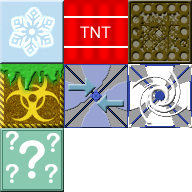
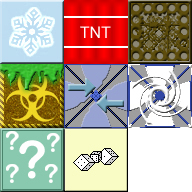
Added random events

Changed region(s): [[0.3125, 0.6562, 0.6875, 1.0]]

diff --git a/app/js/app.js b/app/js/app.js
@@ -1,5 +1,5 @@
 (function() {
-  var Arena, Bonus, BonusManager, Boss, BossManager, CollisionManager, ContentLoader, ControllablePlayer, Cube, CubeFragment, CubeManager, Effect, FallingCube, FreezeMan, FreezeManPart, Game, HUD, HomingMan, HomingManPart, Keyboard, LabiMan, LabiManPart, LevelManager, MissileMan, MissileManPart, MultiPartBoss, NetworkManager, Player, PoingMan, RoueMan, SkinManager, SparkMan, SparkManPart, SpecialCube, SpecialCubes, SquareEnum, StaticCube, VirtualPlayer, animFrame, arena, bonusManager, bonusTypes, bonusTypesId, bossManager, collisionManager, config, contentLoader, cubeManager, debugLayer, debugMap, div, divs, dynamicEntities, game, hud, hudLayer, keyboard, levelManager, networkManager, player, players, skin, skinManager, stage, staticBg, staticCubes, _i, _len,
+  var Arena, Bonus, BonusManager, Boss, BossManager, CollisionManager, ContentLoader, ControllablePlayer, Cube, CubeFragment, CubeManager, Effect, FallingCube, FreezeMan, FreezeManPart, Game, HUD, HomingMan, HomingManPart, Keyboard, LabiMan, LabiManPart, LevelManager, MissileMan, MissileManPart, MultiPartBoss, NetworkManager, Player, PoingMan, RandomEvent, RoueMan, SkinManager, SparkMan, SparkManPart, SpecialCube, SpecialCubes, SquareEnum, StaticCube, VirtualPlayer, animFrame, arena, bonusManager, bonusTypes, bonusTypesId, bossManager, collisionManager, config, contentLoader, cubeManager, debugLayer, debugMap, div, divs, dynamicEntities, game, hud, hudLayer, keyboard, levelManager, networkManager, player, players, randomEvents, skin, skinManager, stage, staticBg, staticCubes, _i, _len,
     __hasProp = {}.hasOwnProperty,
     __extends = function(child, parent) { for (var key in parent) { if (__hasProp.call(parent, key)) child[key] = parent[key]; } function ctor() { this.constructor = child; } ctor.prototype = parent.prototype; child.prototype = new ctor(); child.__super__ = parent.prototype; return child; };
 
@@ -1079,7 +1079,7 @@
     };
 
     ControllablePlayer.prototype.takeBonus = function(bonus) {
-      bonusManager.getBonus(bonus.getName().name, this);
+      bonusManager.getBonus(bonus.getName().name);
       bonus.destroy();
       dynamicEntities.draw();
       return networkManager.sendBonusTaken(bonus.getId());
@@ -1641,6 +1641,70 @@
             width: 64,
             height: 64
           }
+        ],
+        'randomEvent': [
+          {
+            x: 64,
+            y: 128,
+            width: 64,
+            height: 64
+          }
+        ],
+        speed: [
+          {
+            x: 96,
+            y: 0,
+            width: 32,
+            height: 32
+          }
+        ],
+        jumpHeight: [
+          {
+            x: 0,
+            y: 0,
+            width: 32,
+            height: 32
+          }
+        ],
+        doubleJump: [
+          {
+            x: 0,
+            y: 0,
+            width: 32,
+            height: 32
+          }
+        ],
+        grabbing: [
+          {
+            x: 34,
+            y: 0,
+            width: 32,
+            height: 32
+          }
+        ],
+        resurection: [
+          {
+            x: 68,
+            y: 0,
+            width: 32,
+            height: 32
+          }
+        ],
+        speed: [
+          {
+            x: 102,
+            y: 0,
+            width: 32,
+            height: 32
+          }
+        ],
+        tp: [
+          {
+            x: 0,
+            y: 34,
+            width: 32,
+            height: 32
+          }
         ]
       };
       this.draw();
@@ -1739,6 +1803,92 @@
 
   })(Cube);
 
+  randomEvents = ['resurection', 'speed', 'grabbing', 'doubleJump', 'jumpHeight', 'tp'];
+
+  RandomEvent = (function(_super) {
+    __extends(RandomEvent, _super);
+
+    function RandomEvent(type) {
+      var self, tween, x, y;
+      x = stage.getWidth() / 2 - 32;
+      y = stage.getY() * -1 - 64;
+      this.type = randomEvents[type];
+      RandomEvent.__super__.constructor.call(this, x, y, SquareEnum.MEDIUM, 'cubes_special', 'randomEvent');
+      dynamicEntities.add(this.shape);
+      this.shape.setName({
+        type: 'event',
+        randType: this.type
+      });
+      this.shape.draw();
+      self = this;
+      tween = new Kinetic.Tween({
+        node: this.shape,
+        duration: 1,
+        y: arena.y - levelManager.levelHeight - 640,
+        onFinish: function() {
+          return self.doEvent();
+        }
+      });
+      tween.play();
+      cubeManager.tweens.push(tween);
+    }
+
+    RandomEvent.prototype.playEffect = function(effect) {
+      var tmpX, tmpY, tween;
+      effect = new Cube(this.shape.getX() + 16, this.shape.getY() + 16, SquareEnum.SMALL, 'bonus', effect);
+      dynamicEntities.add(effect.shape);
+      effect.shape.setName({
+        type: 'effect'
+      });
+      effect.shape.draw();
+      tmpX = effect.shape.getX() - 16;
+      tmpY = effect.shape.getY() - 16;
+      tween = new Kinetic.Tween({
+        node: effect.shape,
+        duration: 0.3,
+        scaleX: 2,
+        scaleY: 2,
+        x: tmpX,
+        y: tmpY,
+        onFinish: function() {
+          return effect.shape.destroy();
+        }
+      });
+      tween.play();
+      return cubeManager.tweens.push(tween);
+    };
+
+    RandomEvent.prototype.doEvent = function() {
+      var event;
+      contentLoader.play('explosion');
+      event = this.shape.getName().randType;
+      if (event === 'resurection') {
+        player.resurection();
+        this.playEffect('resurection');
+      } else if (event === 'speed') {
+        bonusManager.getBonus('speed', player);
+        this.playEffect('speed');
+      } else if (event === 'grabbing') {
+        bonusManager.getBonus('grabbing', player);
+        this.playEffect('grabbing');
+      } else if (event === 'doubleJump') {
+        bonusManager.getBonus('doubleJump', player);
+        this.playEffect('doubleJump');
+      } else if (event === 'jumpHeight') {
+        bonusManager.getBonus('jumpHeight', player);
+        this.playEffect('jumpHeight');
+      } else if (event === 'tp') {
+        player.shape.setX(this.shape.getX() + 16);
+        player.shape.setY(this.shape.getY() + 64);
+        this.playEffect('tp');
+      }
+      return this.shape.destroy();
+    };
+
+    return RandomEvent;
+
+  })(Cube);
+
   CubeFragment = (function(_super) {
     __extends(CubeFragment, _super);
 
@@ -1764,20 +1914,8 @@
   })(Cube);
 
   bonusTypes = {
-    speed: [
-      {
-        id: 1,
-        name: 'speed',
-        x: 96,
-        y: 0,
-        width: 32,
-        height: 32
-      }
-    ],
     jumpHeight: [
       {
-        id: 2,
-        name: 'jumpHeight',
         x: 0,
         y: 0,
         width: 32,
@@ -1786,8 +1924,6 @@
     ],
     doubleJump: [
       {
-        id: 3,
-        name: 'doubleJump',
         x: 0,
         y: 0,
         width: 32,
@@ -1796,9 +1932,7 @@
     ],
     grabbing: [
       {
-        id: 4,
-        name: 'grabbing',
-        x: 32,
+        x: 34,
         y: 0,
         width: 32,
         height: 32
@@ -1806,9 +1940,15 @@
     ],
     resurection: [
       {
-        id: 5,
-        name: 'resurection',
-        x: 64,
+        x: 68,
+        y: 0,
+        width: 32,
+        height: 32
+      }
+    ],
+    speed: [
+      {
+        x: 102,
         y: 0,
         width: 32,
         height: 32
@@ -1904,7 +2044,7 @@
       this.timers = [];
     }
 
-    BonusManager.prototype.getBonus = function(bonusName, player) {
+    BonusManager.prototype.getBonus = function(bonusName) {
       var bonus, _i, _len, _ref, _results;
       contentLoader.play('pickup');
       _ref = this.bonuses;
@@ -1983,10 +2123,17 @@
     }
 
     LevelManager.prototype.reset = function() {
-      var tween, _i, _len, _ref;
+      var tween, _i, _j, _len, _len1, _ref, _ref1;
       _ref = this.tweens;
       for (_i = 0, _len = _ref.length; _i < _len; _i++) {
         tween = _ref[_i];
+        if (tween !== void 0) {
+          tween.destroy();
+        }
+      }
+      _ref1 = cubeManager.tweens;
+      for (_j = 0, _len1 = _ref1.length; _j < _len1; _j++) {
+        tween = _ref1[_j];
         if (tween !== void 0) {
           tween.destroy();
         }
@@ -2052,6 +2199,7 @@
   CubeManager = (function() {
     function CubeManager() {
       this.speed = 0.4;
+      this.tweens = [];
     }
 
     CubeManager.prototype.reinitAllPhys = function() {
@@ -2378,6 +2526,9 @@
       });
       this.socket.on('fallingRandSpecial', function(data) {
         return new SpecialCube(data[0], data[1], 6, data[2]);
+      });
+      this.socket.on('randomEvent', function(data) {
+        return new RandomEvent(data);
       });
       this.socket.on('resetLevel', function() {
         levelManager.reset();
@@ -2768,7 +2919,7 @@
             x: 0,
             y: 65,
             width: 544,
-            height: 32
+            height: 31
           }
         ],
         poingman: [

diff --git a/server/server.js b/server/server.js
@@ -10,6 +10,8 @@
     fastLevelSpeed: 500,
     speedPerLevel: 50,
     timeout: 5000,
+    randomEventProb: 0.2,
+    randomEvents: 6,
     debug: false,
     debugMap: false
   };
@@ -705,6 +707,10 @@
       return this.io.sockets.emit('fallingRandSpecial', [col, size, type]);
     };
 
+    NetworkManager.prototype.sendRandomEvent = function(type) {
+      return this.io.sockets.emit('randomEvent', type);
+    };
+
     NetworkManager.prototype.sendResetLevel = function() {
       return this.io.sockets.emit('resetLevel');
     };
@@ -1131,7 +1137,12 @@
   };
 
   slowLoop = function() {
-    return networkManager.sendPlayerList();
+    var event;
+    networkManager.sendPlayerList();
+    if ((cubeManager.running || bossManager.launched) && Math.random() > config.randomEventProb) {
+      event = Math.floor(Math.random() * config.randomEvents);
+      return networkManager.sendRandomEvent(event);
+    }
   };
 
 }).call(this);

diff --git a/Gruntfile.js b/Gruntfile.js
@@ -26,6 +26,7 @@ module.exports = function(grunt) {
                     'src/coffee/app/Classes/FallingCube.coffee',
                     'src/coffee/app/Classes/StaticCube.coffee',
                     'src/coffee/app/Classes/SpecialCube.coffee',
+                    'src/coffee/app/Classes/RandomEvent.coffee',
                     'src/coffee/app/Classes/CubeFragment.coffee',
                     'src/coffee/app/Classes/Bonus.coffee',
                     'src/coffee/app/Classes/BonusManager.coffee',
